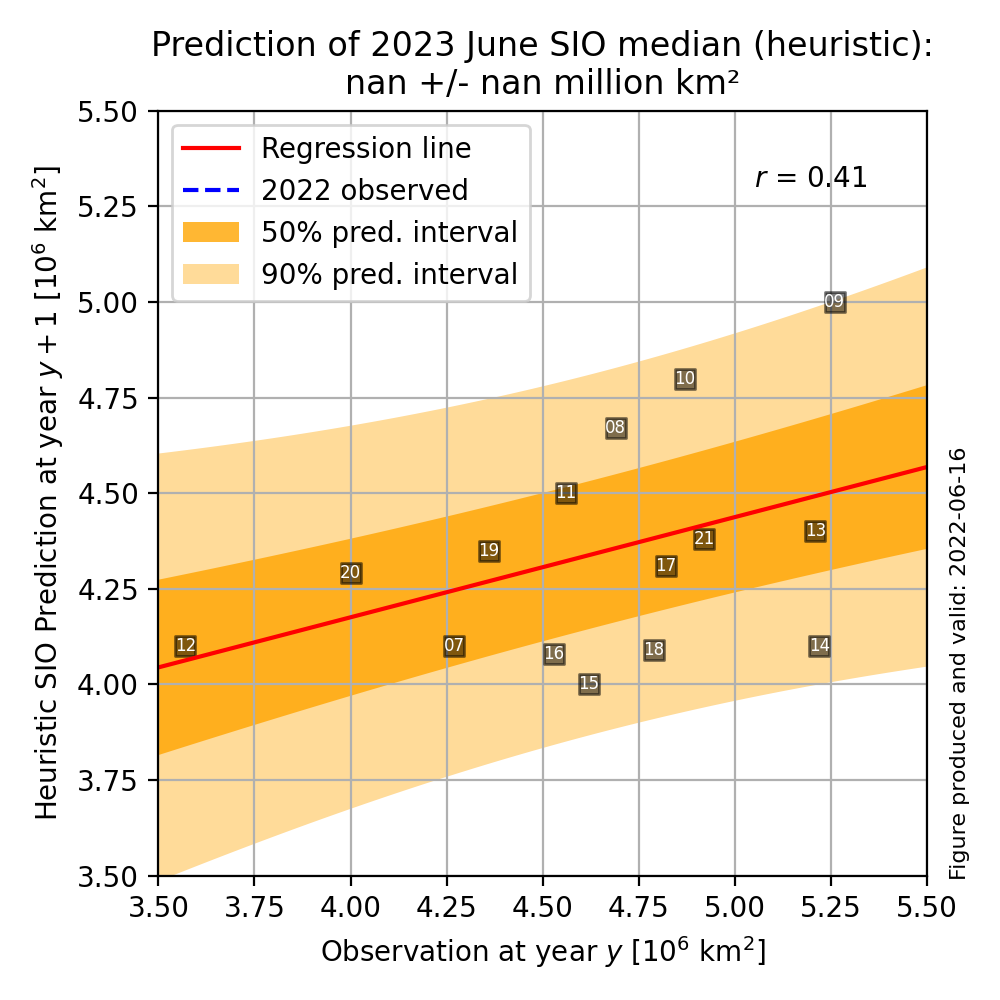
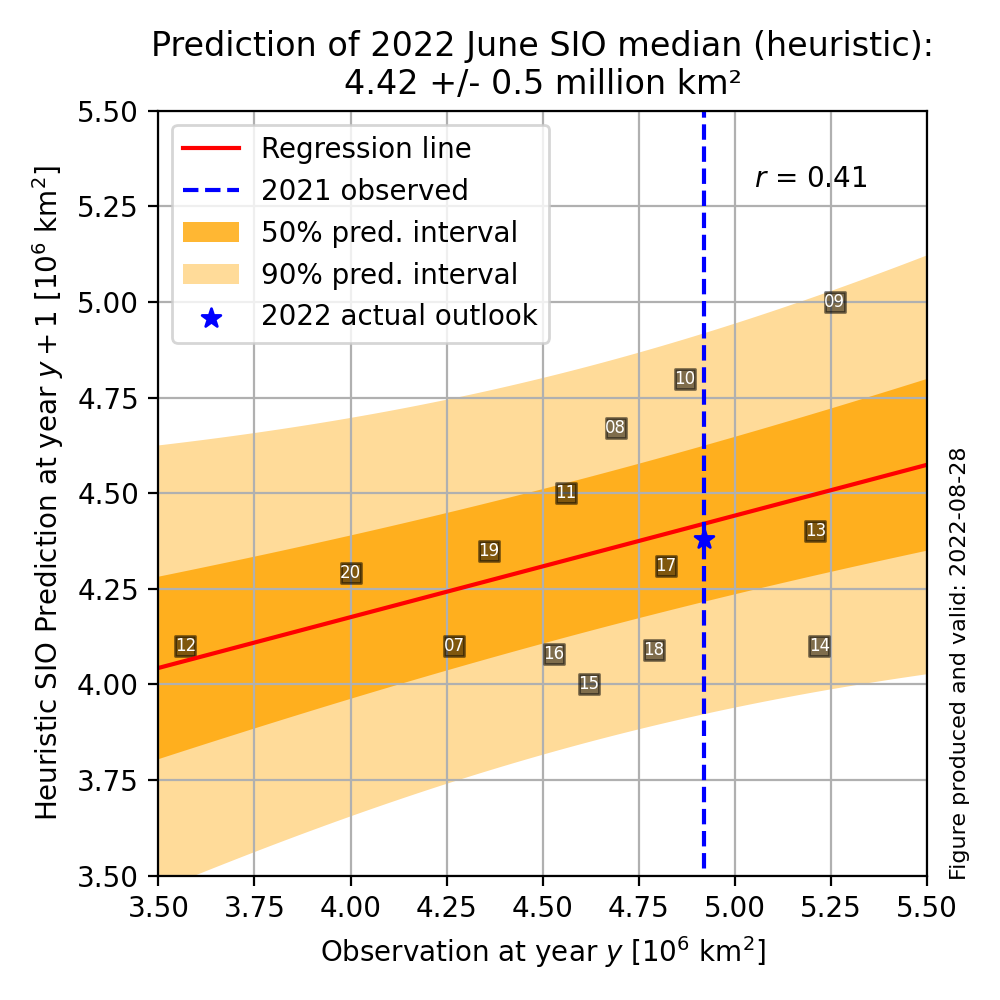
Update June 2022

diff --git a/sio_predicting_predictions.py b/sio_predicting_predictions.py
@@ -45,7 +45,7 @@ data = [
         [2019, 4.36, "inSample",   [4.40,   4.56,   4.4 ,   4.09,   np.nan]], # Based on Betsy's Excel sheet
         [2020, 4.00, "inSample",   [4.33,  4.405,  4.26,   4.35,   np.nan  ]], #
         [2021, 4.92, "inSample",   [4.37,   4.20,    4.46,  4.29,   np.nan ]],
-        [2022, np.nan, "inSample",  [4.57,   4.56, 4.64,  4.38,   4.85 ]],
+        [2022, np.nan, "outSample",  [4.57,   4.56, 4.64,  4.38,   4.85 ]],
        ]
 
 # Collect data to contruct relationship
